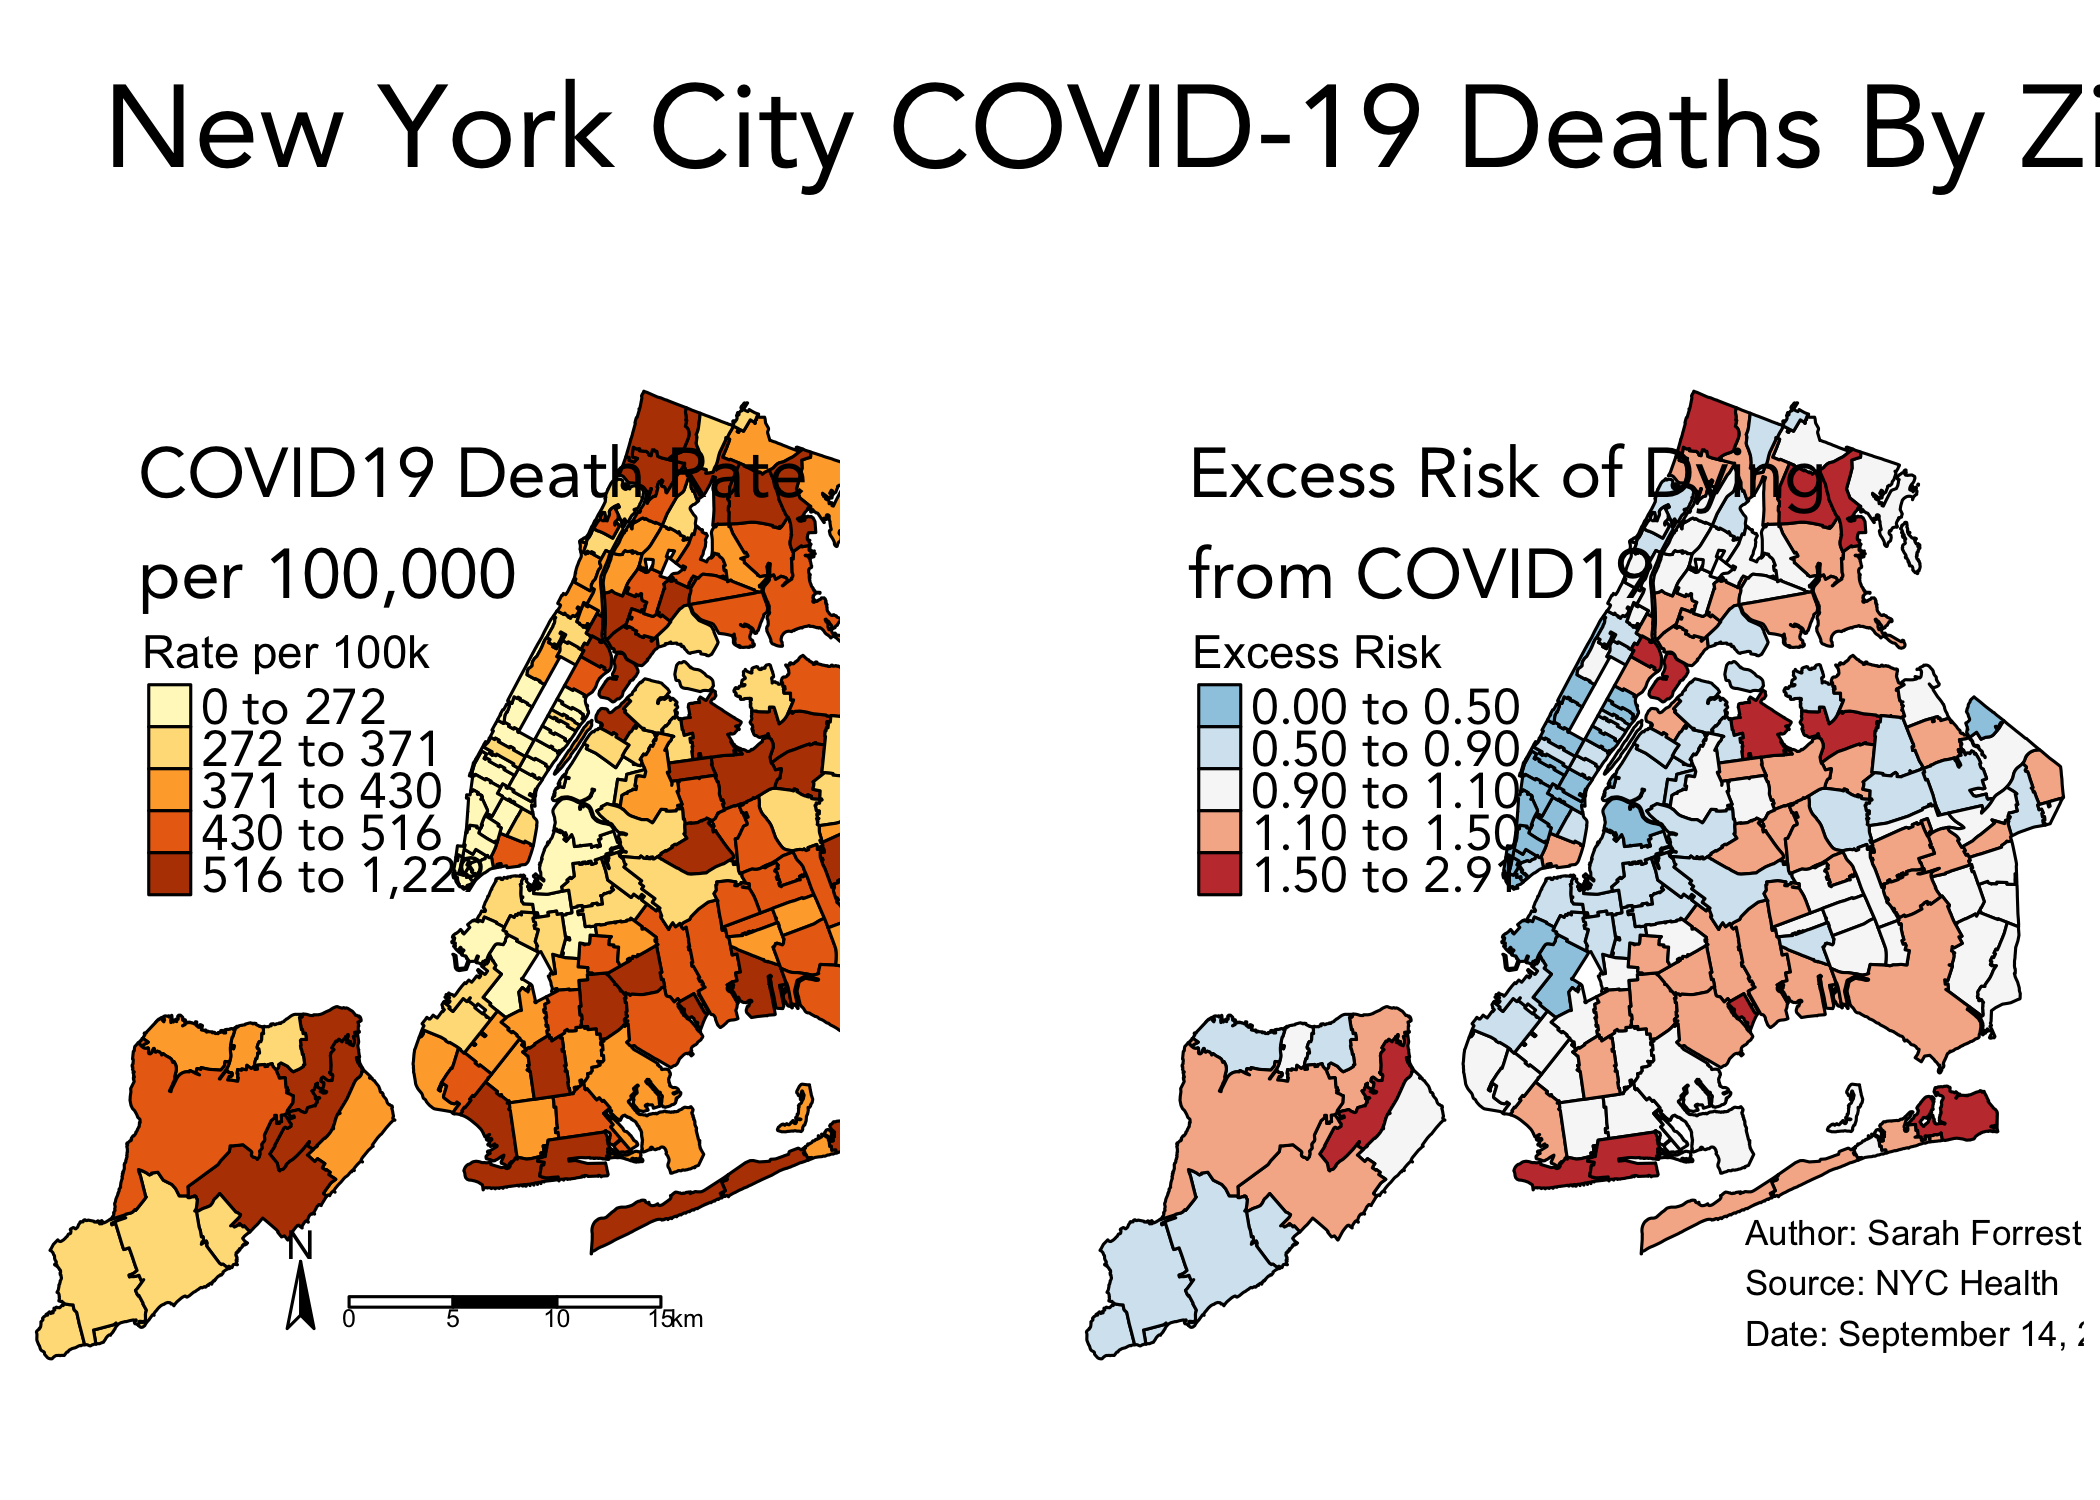
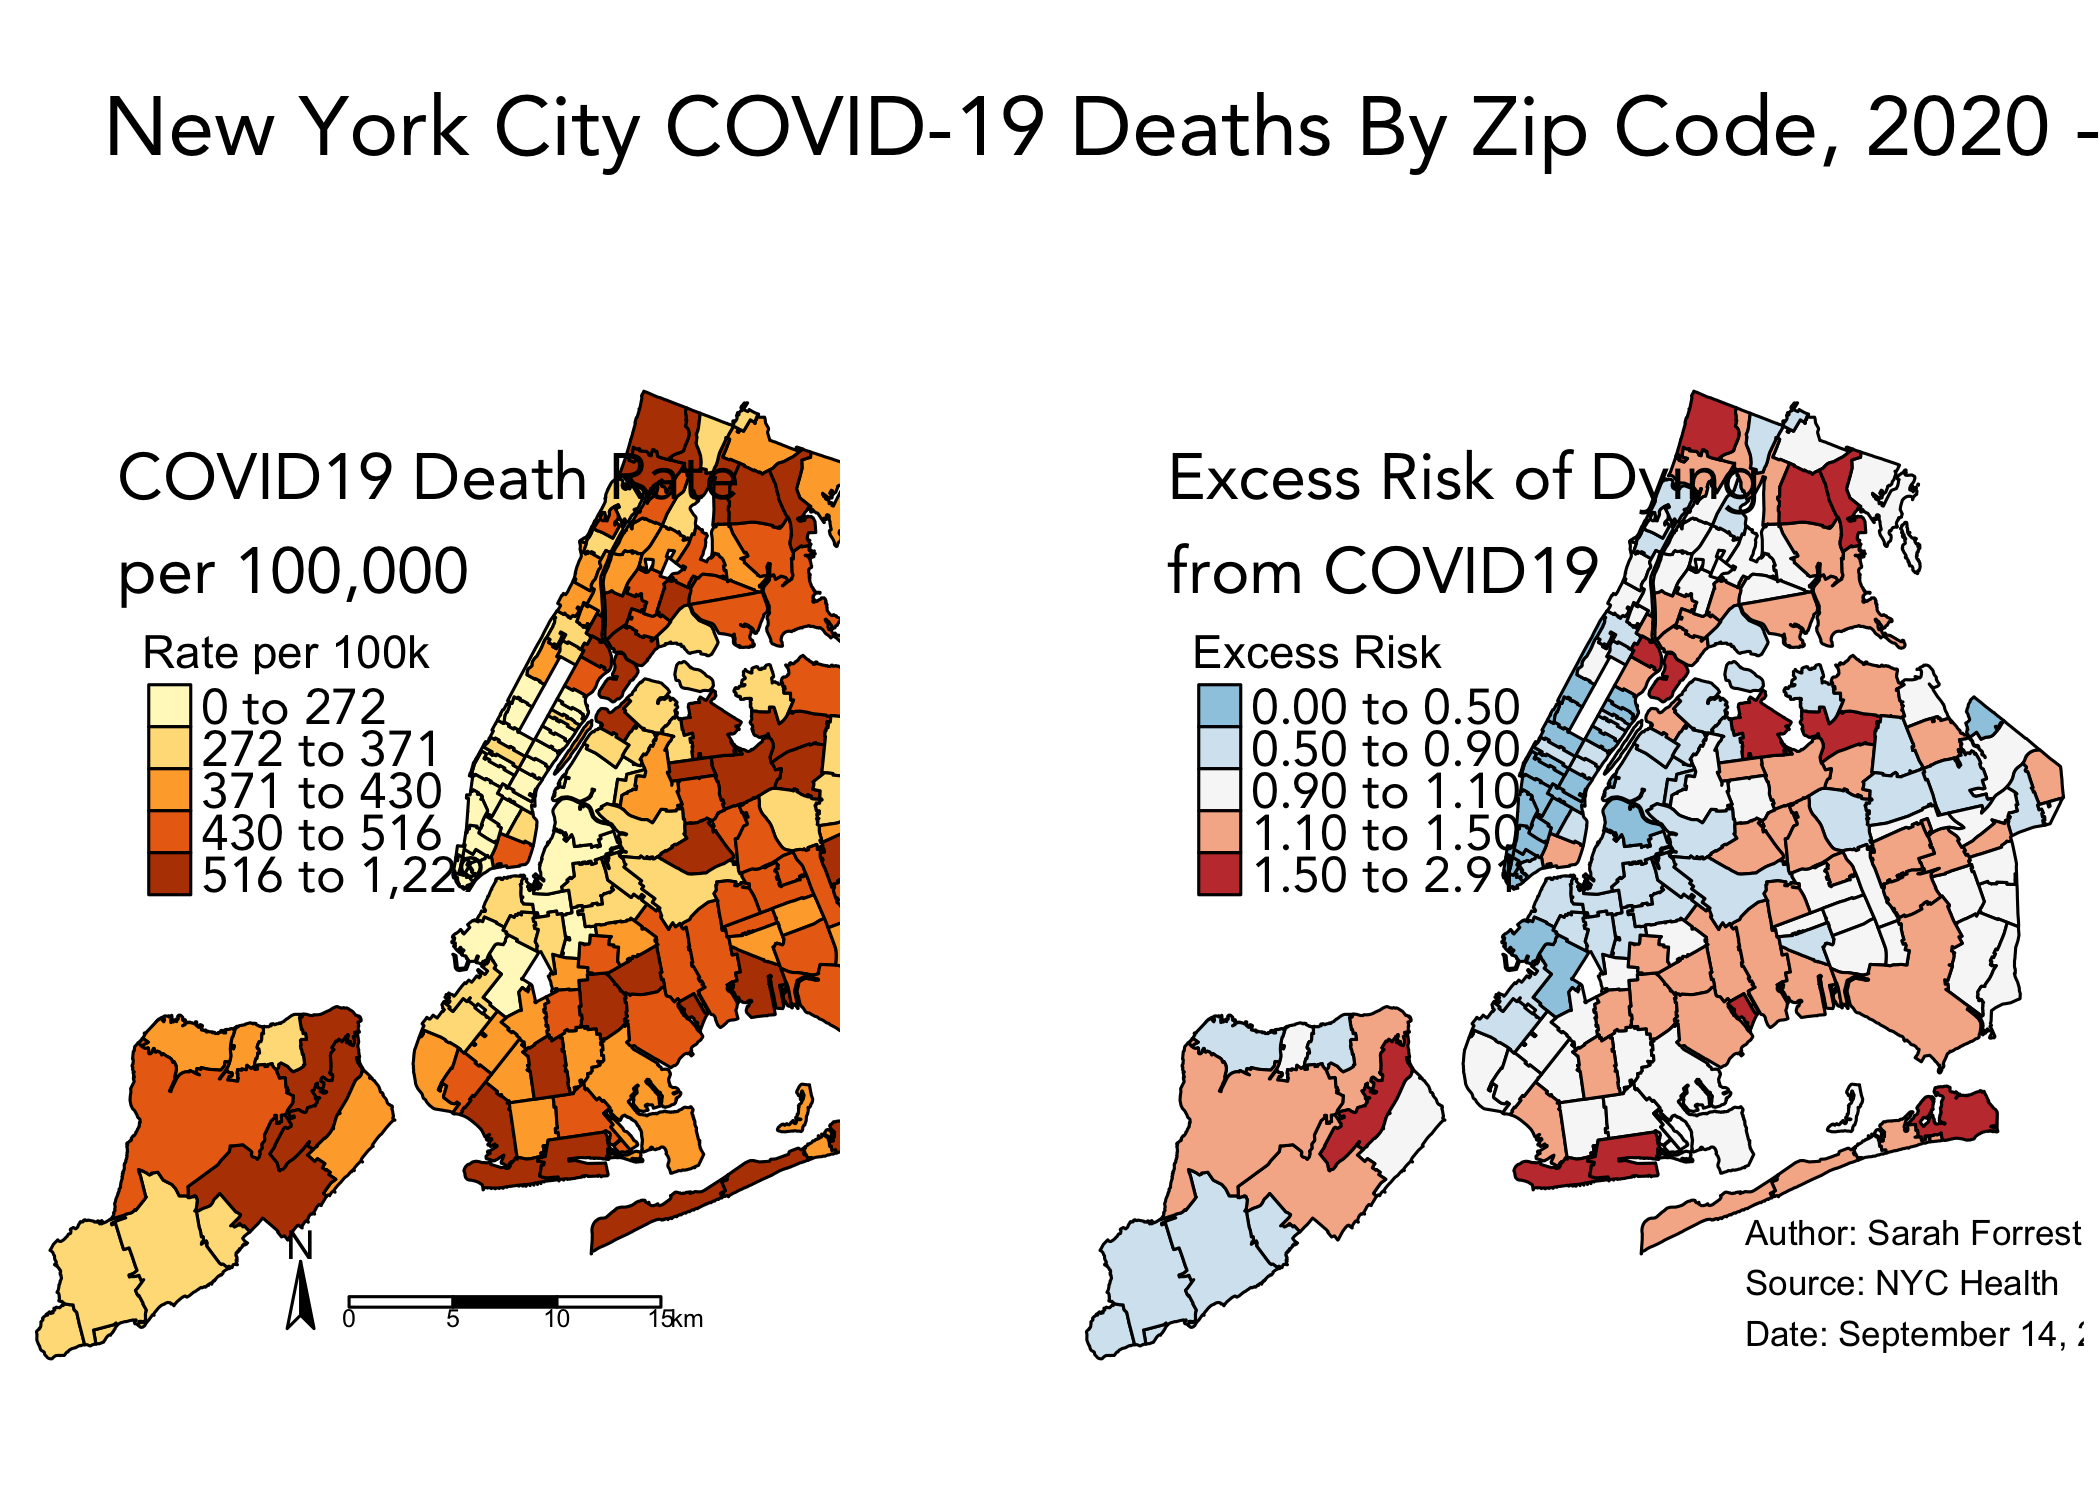
Adjust sizing

diff --git a/mapping_risk.md b/mapping_risk.md
@@ -110,8 +110,8 @@ tm_shape(covid_zip_rr) +
             legend.text.fontfamily = "Avenir",
             legend.text.size = 1) +
   tm_layout(title = "COVID19 Death Rate \nper 100,000",
-            title.size = 1.4,                                                  
-            title.position = c(0.12, .85),  
+            title.size = 1.3,                                                  
+            title.position = c(0.10, .85),  
             title.fontfamily = "Avenir",
             frame = FALSE) +
   tm_compass(type = "arrow",
@@ -135,8 +135,8 @@ tm_shape(covid_zip_rr) +
             legend.text.fontfamily = "Avenir",
             legend.text.size = 1) +
   tm_layout(title = "COVID19 Death Rate \nper 100,000",
-            title.size = 1.4,                                                  
-            title.position = c(0.12, .85),  
+            title.size = 1.3,                                                  
+            title.position = c(0.10, .85),  
             title.fontfamily = "Avenir",
             frame = FALSE) +
   tm_compass(type = "arrow",
@@ -163,8 +163,8 @@ tm_shape(covid_zip_rr) +
             legend.text.fontfamily = "Avenir",
             legend.text.size = 1) +
   tm_layout(title = "Excess Risk of Dying \nfrom COVID19",
-            title.size = 1.4,                                                  
-            title.position = c(0.12, .85),  
+            title.size = 1.3,                                                  
+            title.position = c(0.10, .85),  
             title.fontfamily = "Avenir",
             frame = FALSE) +
   tm_credits("Author: Sarah Forrest \nSource: NYC Health \nDate: September 14, 2022",
@@ -193,8 +193,8 @@ tm_shape(covid_zip_rr) +
             legend.text.fontfamily = "Avenir",
             legend.text.size = 1) +
   tm_layout(title = "Excess Risk of Dying \nfrom COVID19",
-            title.size = 1.4,                                                  
-            title.position = c(0.12, .85),  
+            title.size = 1.3,                                                  
+            title.position = c(0.10, .85),  
             title.fontfamily = "Avenir",
             frame = FALSE) +
   tm_credits("Author: Sarah Forrest \nSource: NYC Health \nDate: September 14, 2022",
@@ -233,7 +233,7 @@ title <- ggdraw() +
     fontfamily = "Avenir",
     x = 0,
     hjust = 0,
-    size = 28) +
+    size = 20) +
   theme( plot.margin = margin(0, 0, 0, 25))
 
 plot_grid(title,
